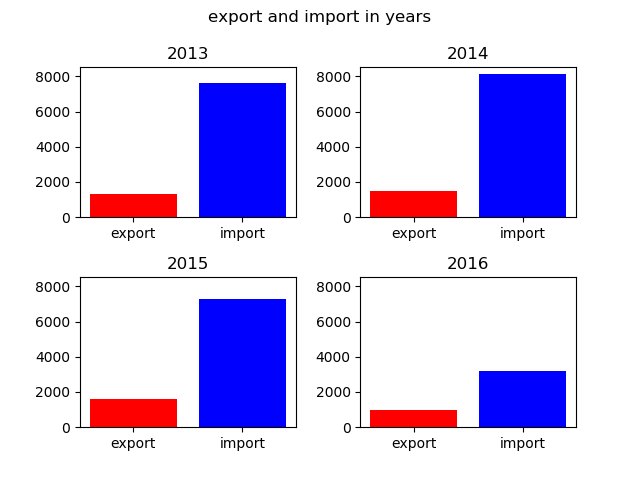
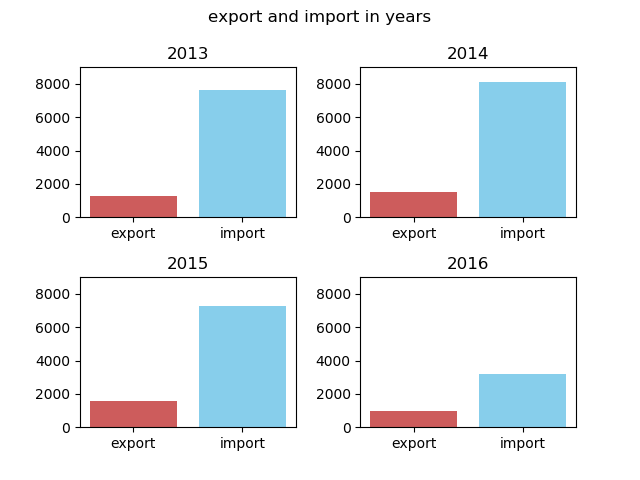
добавлена функция для показа значений столбцов, создан график со значениями импорта и экспорта по регионам

diff --git a/turkey.py b/turkey.py
@@ -5,6 +5,23 @@ import numpy as np
 from matplotlib import pyplot as plt
 import switch as sw
 
+
+# функция для показа значений столбцов
+def autolabel(rects, labels=None, height_factor=0.994):
+    for i, rect in enumerate(rects):
+        height = rect.get_height()
+        if labels is not None:
+            try:
+                label = labels[i]
+            except (TypeError, KeyError):
+                label = ' '
+        else:
+            label = '%d' % int(height)
+        ax.text(rect.get_x() + rect.get_width()/2., height_factor*height,
+                '{}'.format(label),
+                ha='center', va='bottom')
+
+
 # читаем файл с данными и делаем из него dataframe
 dt = pd.read_csv("turkey.csv")
 
@@ -14,34 +31,39 @@ print(set(dt["PERIOD"]), set(dt["REGION_S"]))
 
 # создаём список лет в dataframe-e
 years = []                              # список будет состоять из целочисленных значений
+# список с регионами, где ["01-центральный фед. округ", "02-северо-западный фед. округ", "03-южный фед. округ",
+#            "04-приволжский фед. округ", "05-уральский фед. округ", "06-сибирский фед. округ",
+#            "07-дальневосточ. фед. округ", "08-северо-кавказский фед. округ", "09-крымский фед. округ"]
+regions = ["01-ЦФО", "02-СЗФО", "03-ЮФО", "04-ПФО", "05-УФО", "06-СФО", "07-ДФО", "08-СКФО", "09-КФО"]
 
 # заполняем список
 for i in dt["PERIOD"]:
     if i not in years:
         years = np.append(years, i)
 
-# берём колонки с информацией по депозитам и годами
-npdt = dt.values[:, 0:2]
-inf = npdt[:, 0]
-date = npdt[:, 1]
+# берём колонки с информацией по импорту/эспорту и годами
+# npdt = dt.values[:, 0:2]
+inf = dt.values[:, 0]
+date = dt.values[:, 1]
 reg = np.array(dt["REGION_S"])
 
 # создаём переменные для подсчёта импорта и экспорта по годам
 exp13 = exp14 = exp15 = exp16 = 0
 imp13 = imp14 = imp15 = imp16 = 0
 
+# создаем списки для экспорта и импорта по регионам
 ereg = [0, 0, 0, 0, 0, 0, 0, 0, 0]
 ireg = [0, 0, 0, 0, 0, 0, 0, 0, 0]
 
 # заполняем данные по экспорту и импорту
 for i in range(len(inf)):
     if inf[i] == "ЭК":                                   # если текущая позиция - экспорт
-        for j in range(len(ereg)):
-            if int(reg[i][1]) == j+1:
+        for j in range(len(ereg)):                       # если номер региона равен текущему индексу, увеличиваем
+            if int(reg[i][1]) == j + 1:                  # значение на 1
                 ereg[j] = ereg[j] + 1
                 break
 
-        for case in sw.switch(date[i]):
+        for case in sw.switch(date[i]):                  # заполняем экспорт по годам
             if case(2013):
                 exp13 += 1
                 break
@@ -55,12 +77,12 @@ for i in range(len(inf)):
                 exp16 += 1
                 break
     elif inf[i] == "ИМ":                                 # если текущая позиция - импорт
-        for j in range(len(ireg)):
+        for j in range(len(ireg)):                       # цикл аналогичен циклу в ветви экспорта
             if int(reg[i][1]) == j+1:
                 ireg[j] = ireg[j] + 1
                 break
 
-        for case in sw.switch(date[i]):
+        for case in sw.switch(date[i]):                  # заполняем экспорт по годам
             if case(2013):
                 imp13 += 1
                 break
@@ -74,17 +96,21 @@ for i in range(len(inf)):
                 imp16 += 1
                 break
 
-print(ireg, ereg)
 # считаем общие импорт и экспорт за 2013-2016 года
 texp = exp13 + exp14 + exp15 + exp16
 timp = imp13 + imp14 + imp15 + imp16
 
 # создаём график общего импорта и экспорта
+fig, ax = plt.subplots()
 plt.title("total export and import for 2013-2016")
-plt.bar("export", texp, color="red")
-plt.bar("import", timp, color="blue")
-# plt.show()
+rects1 = plt.bar("export", texp, color="IndianRed")
+rects2 = plt.bar("import", timp, color="SkyBlue")
+
+autolabel(rects1)
+autolabel(rects2)
+
 plt.savefig("total_exp_imp.png")    # сохраняем график в виде png
+plt.show()
 
 # создаём подграфики импорта и экспорта по годам
 plt.suptitle("export and import in years")
@@ -93,36 +119,54 @@ plt.subplots_adjust(wspace=0.3)     # горизонтальный отступ 
 plt.subplots_adjust(top=0.86)       # отступ от заголовка
 # первый график, все последующие графики имеют одинаковые координатные оси благодаря параметрам sharex и sharey
 fsp = plt.subplot(2, 2, 1)
+plt.ylim(0, 9000)
 plt.title("2013")
-plt.bar("export", exp13, color="red")
-plt.bar("import", imp13, color="blue")
+plt.bar("export", exp13, color="IndianRed")
+plt.bar("import", imp13, color="SkyBlue")
 
 # второй график
 plt.subplot(2, 2, 2, sharex=fsp, sharey=fsp)
 plt.title("2014")
-plt.bar("export", exp14, color="red")
-plt.bar("import", imp14, color="blue")
+plt.bar("export", exp14, color="IndianRed")
+plt.bar("import", imp14, color="SkyBlue")
 
 # третий график
 plt.subplot(2, 2, 3, sharex=fsp, sharey=fsp)
 plt.title("2015")
-plt.bar("export", exp15, color="red")
-plt.bar("import", imp15, color="blue")
+plt.bar("export", exp15, color="IndianRed")
+plt.bar("import", imp15, color="SkyBlue")
 
 # четвёртый график
 plt.subplot(2, 2, 4, sharex=fsp, sharey=fsp)
 plt.title("2016")
-plt.bar("export", exp16, color="red")
-plt.bar("import", imp16, color="blue")
+plt.bar("export", exp16, color="IndianRed")
+plt.bar("import", imp16, color="SkyBlue")
+
 
 plt.savefig("imp_exp_in_years.png")     # сохраняем график в виде png
-# plt.show()
-
-fig, ax = plt.subplots()
-index = [1, 2, 3, 4, 5, 6, 7, 8, 9]
-bar_width = 0.2
-
-rects1 = plt.bar([x + 0.05 for x in index], ireg, bar_width, color="b", label="import")
-rects2 = plt.bar([x + bar_width for x in index], ereg, bar_width, color="r", label="export")
-
 plt.show()
+
+# создаем график импорта и экспорта по регионам
+fig, ax = plt.subplots()
+plt.title("import and export in regions")
+
+ind = np.array([x*2 for x in range(len(regions))])           # задаём позиции для пар столбцов
+width = 0.75                                                 # задаём ширину столбцов
+
+rects1 = ax.bar(ind + width/2, ireg, width, color='SkyBlue', label='import')    # столбы импорта, располагаются справа
+rects2 = ax.bar(ind - width/2, ereg, width, color='IndianRed', label='export')  # столбы экспорта, располагаются слева
+
+plt.xticks(ind)                                 # задаём свою ось Х
+ax.set_xticklabels(regions, rotation=60)        # с названиями регионов
+plt.margins(0.2)        # расширяем область между осью Х и нижней границей окна
+plt.subplots_adjust(bottom=0.17)
+plt.ylim(0, 9000)       # задаём предел для оси У
+plt.xlim(-2, 18)        # и оси Х
+
+autolabel(rects1)
+autolabel(rects2)
+
+plt.legend()
+plt.savefig("imp_exp_in_regions.png")       # сохраняем график в виде png
+plt.show()
+
